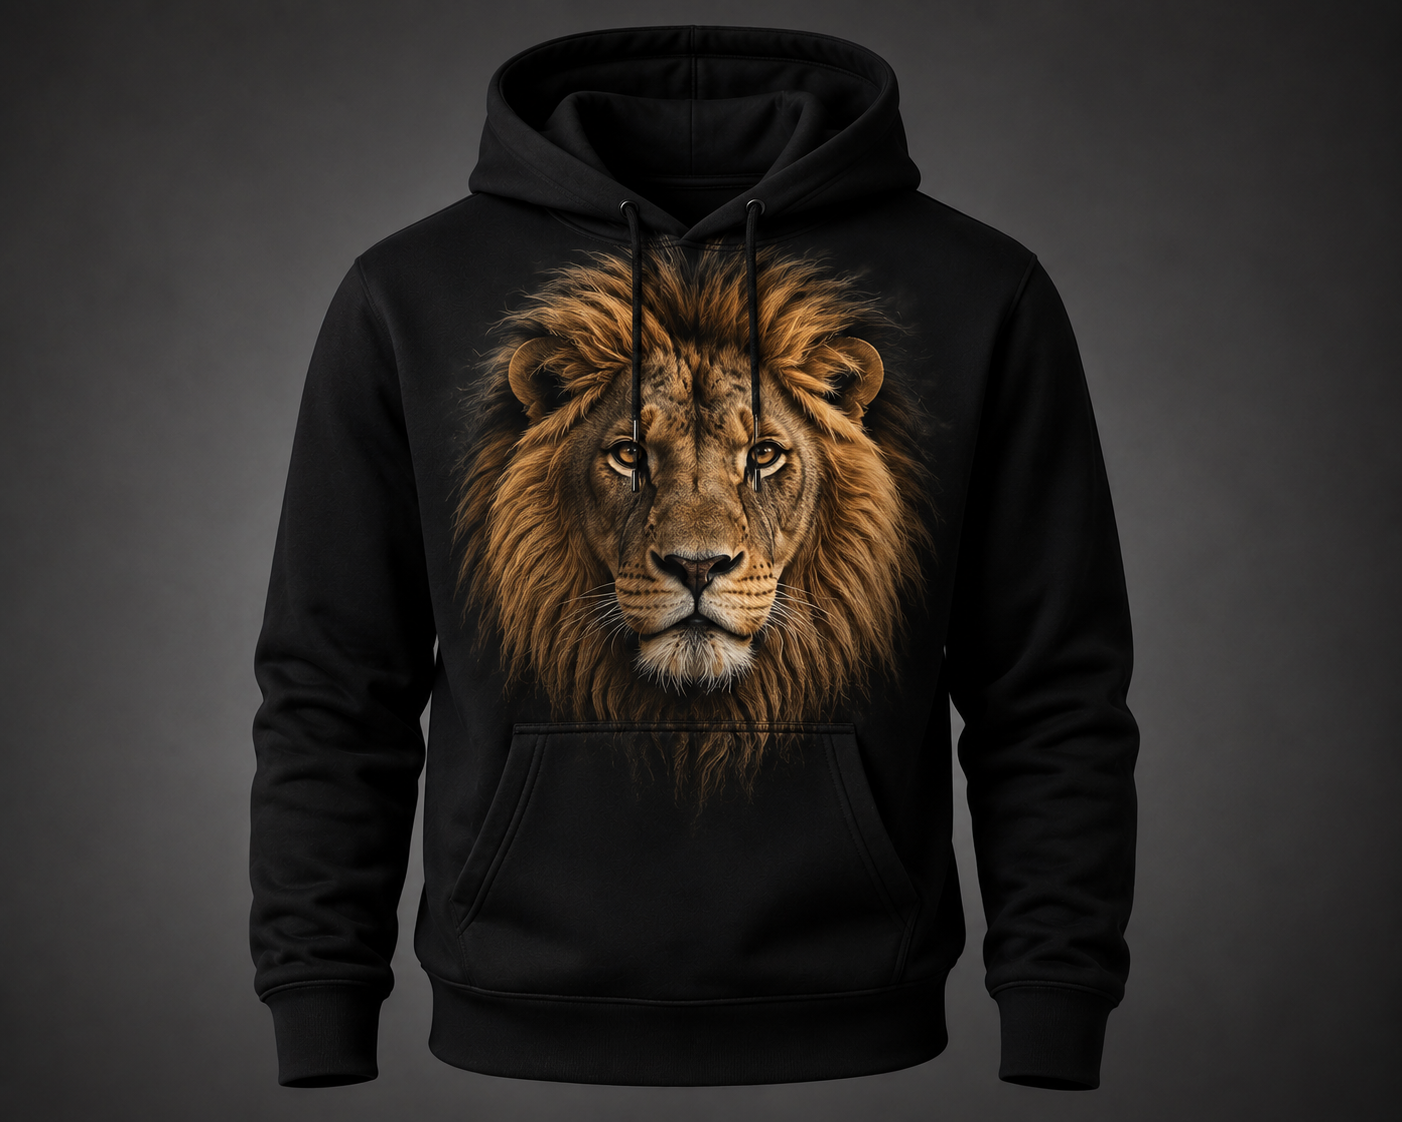
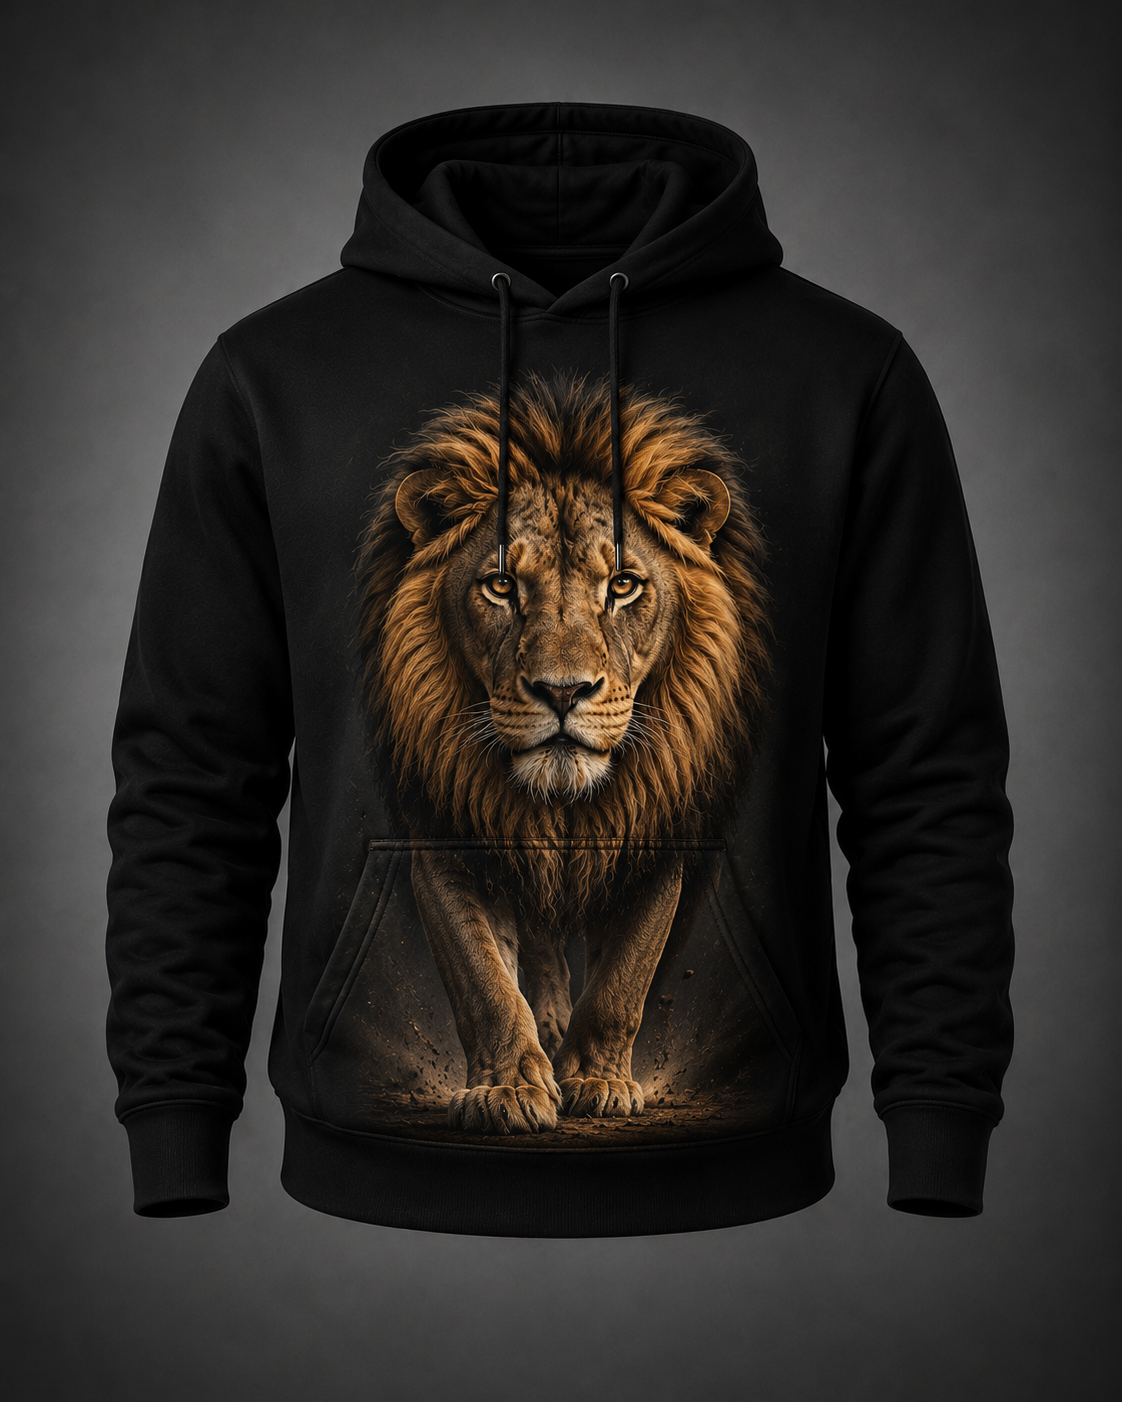
Add new product images for the shop: Backpack-G and Lion-hoodie1

diff --git a/shop/index.html b/shop/index.html
@@ -232,7 +232,7 @@ BEST SELLERS
 <div class="product-grid">
 
 <div class="product-card">
-<img src="https://picsum.photos/seed/big5-best-shirt/500/500" alt="Classic Safari Shirt">
+<img src="/shop/men-safari-shirt.png" alt="Classic Safari Shirt">
 <div class="product-info">
 <h3>Classic Safari Shirt</h3>
 <p class="price">$49</p>
@@ -241,7 +241,7 @@ BEST SELLERS
 </div>
 
 <div class="product-card">
-<img src="https://picsum.photos/seed/big5-best-hat/500/500" alt="Safari Hat">
+<img src="/shop/women-hat.png" alt="Safari Hat">
 <div class="product-info">
 <h3>Safari Hat</h3>
 <p class="price">$35</p>
@@ -250,7 +250,7 @@ BEST SELLERS
 </div>
 
 <div class="product-card">
-<img src="https://picsum.photos/seed/big5-best-boots/500/500" alt="Safari Boots">
+<img src="/shop/Safari-boots.jpg" alt="Safari Boots">
 <div class="product-info">
 <h3>Safari Boots</h3>
 <p class="price">$129</p>
@@ -259,7 +259,7 @@ BEST SELLERS
 </div>
 
 <div class="product-card">
-<img src="https://picsum.photos/seed/big5-hoodie-lion/500/500" alt="Safari Hoodie">
+<img src="/shop/Rhino-hoodie.png" alt="Safari Hoodie">
 <div class="product-info">
 <h3>Safari Hoodie</h3>
 <p class="price">$65</p>
@@ -268,7 +268,7 @@ BEST SELLERS
 </div>
 
 <div class="product-card">
-<img src="https://picsum.photos/seed/big5-best-binoculars/500/500" alt="Wildlife Binoculars">
+<img src="/shop/Binoculars.jpg" alt="Wildlife Binoculars">
 <div class="product-info">
 <h3>Wildlife Binoculars</h3>
 <p class="price">$199</p>
@@ -277,7 +277,7 @@ BEST SELLERS
 </div>
 
 <div class="product-card">
-<img src="https://picsum.photos/seed/big5-backpack/500/500" alt="Safari Backpack">
+<img src="/shop/Backpack-G.png" alt="Safari Backpack">
 <div class="product-info">
 <h3>Safari Backpack</h3>
 <p class="price">$119</p>
@@ -286,7 +286,7 @@ BEST SELLERS
 </div>
 
 <div class="product-card">
-<img src="https://picsum.photos/seed/big5-beads/500/500" alt="Beads and Necklaces">
+<img src="/shop/Beads.jpeg" alt="Beads and Necklaces">
 <div class="product-info">
 <h3>Handmade Beads</h3>
 <p class="price">$22</p>
@@ -295,7 +295,7 @@ BEST SELLERS
 </div>
 
 <div class="product-card">
-<img src="https://picsum.photos/seed/big5-trousers/500/500" alt="Safari Cargo Trousers">
+<img src="/shop/Cargo-trousers.png" alt="Safari Cargo Trousers">
 <div class="product-info">
 <h3>Safari Cargo Trousers</h3>
 <p class="price">$69</p>

diff --git a/shop/products.js b/shop/products.js
@@ -45,7 +45,7 @@ const products = [
   stock: 40,
   badge: "NEW",
   image: "/shop/Leopard-hoodie.png",
-  description: "Heavyweight fleece hoodie, plain by default with the option of a Big Five animal on the front.",
+  description: "Heavyweight fleece hoodie, plain by default with the option of a Big Five animal on the front or the back.",
   sizes: ["S", "M", "L", "XL", "XXL"],
   colours: ["Khaki", "Jungle Green", "Black", "Grey"],
   animals: [
@@ -293,7 +293,7 @@ const products = [
   stock: 22,
   badge: "SALE",
   image: "/shop/Rhino-set.png",
-  description: "Matching hoodie and sweatpants set, plain by default with the option of a Big Five animal — on the hoodie front and the sweatpants' upper left leg.",
+  description: "Matching hoodie and sweatpants set, plain by default with the option of a Big Five animal — on the hoodie front or back and the sweatpants' upper left leg.",
   sizes: ["S", "M", "L", "XL", "XXL"],
   colours: ["Khaki", "Jungle Green", "Black", "Grey"],
   animals: [
